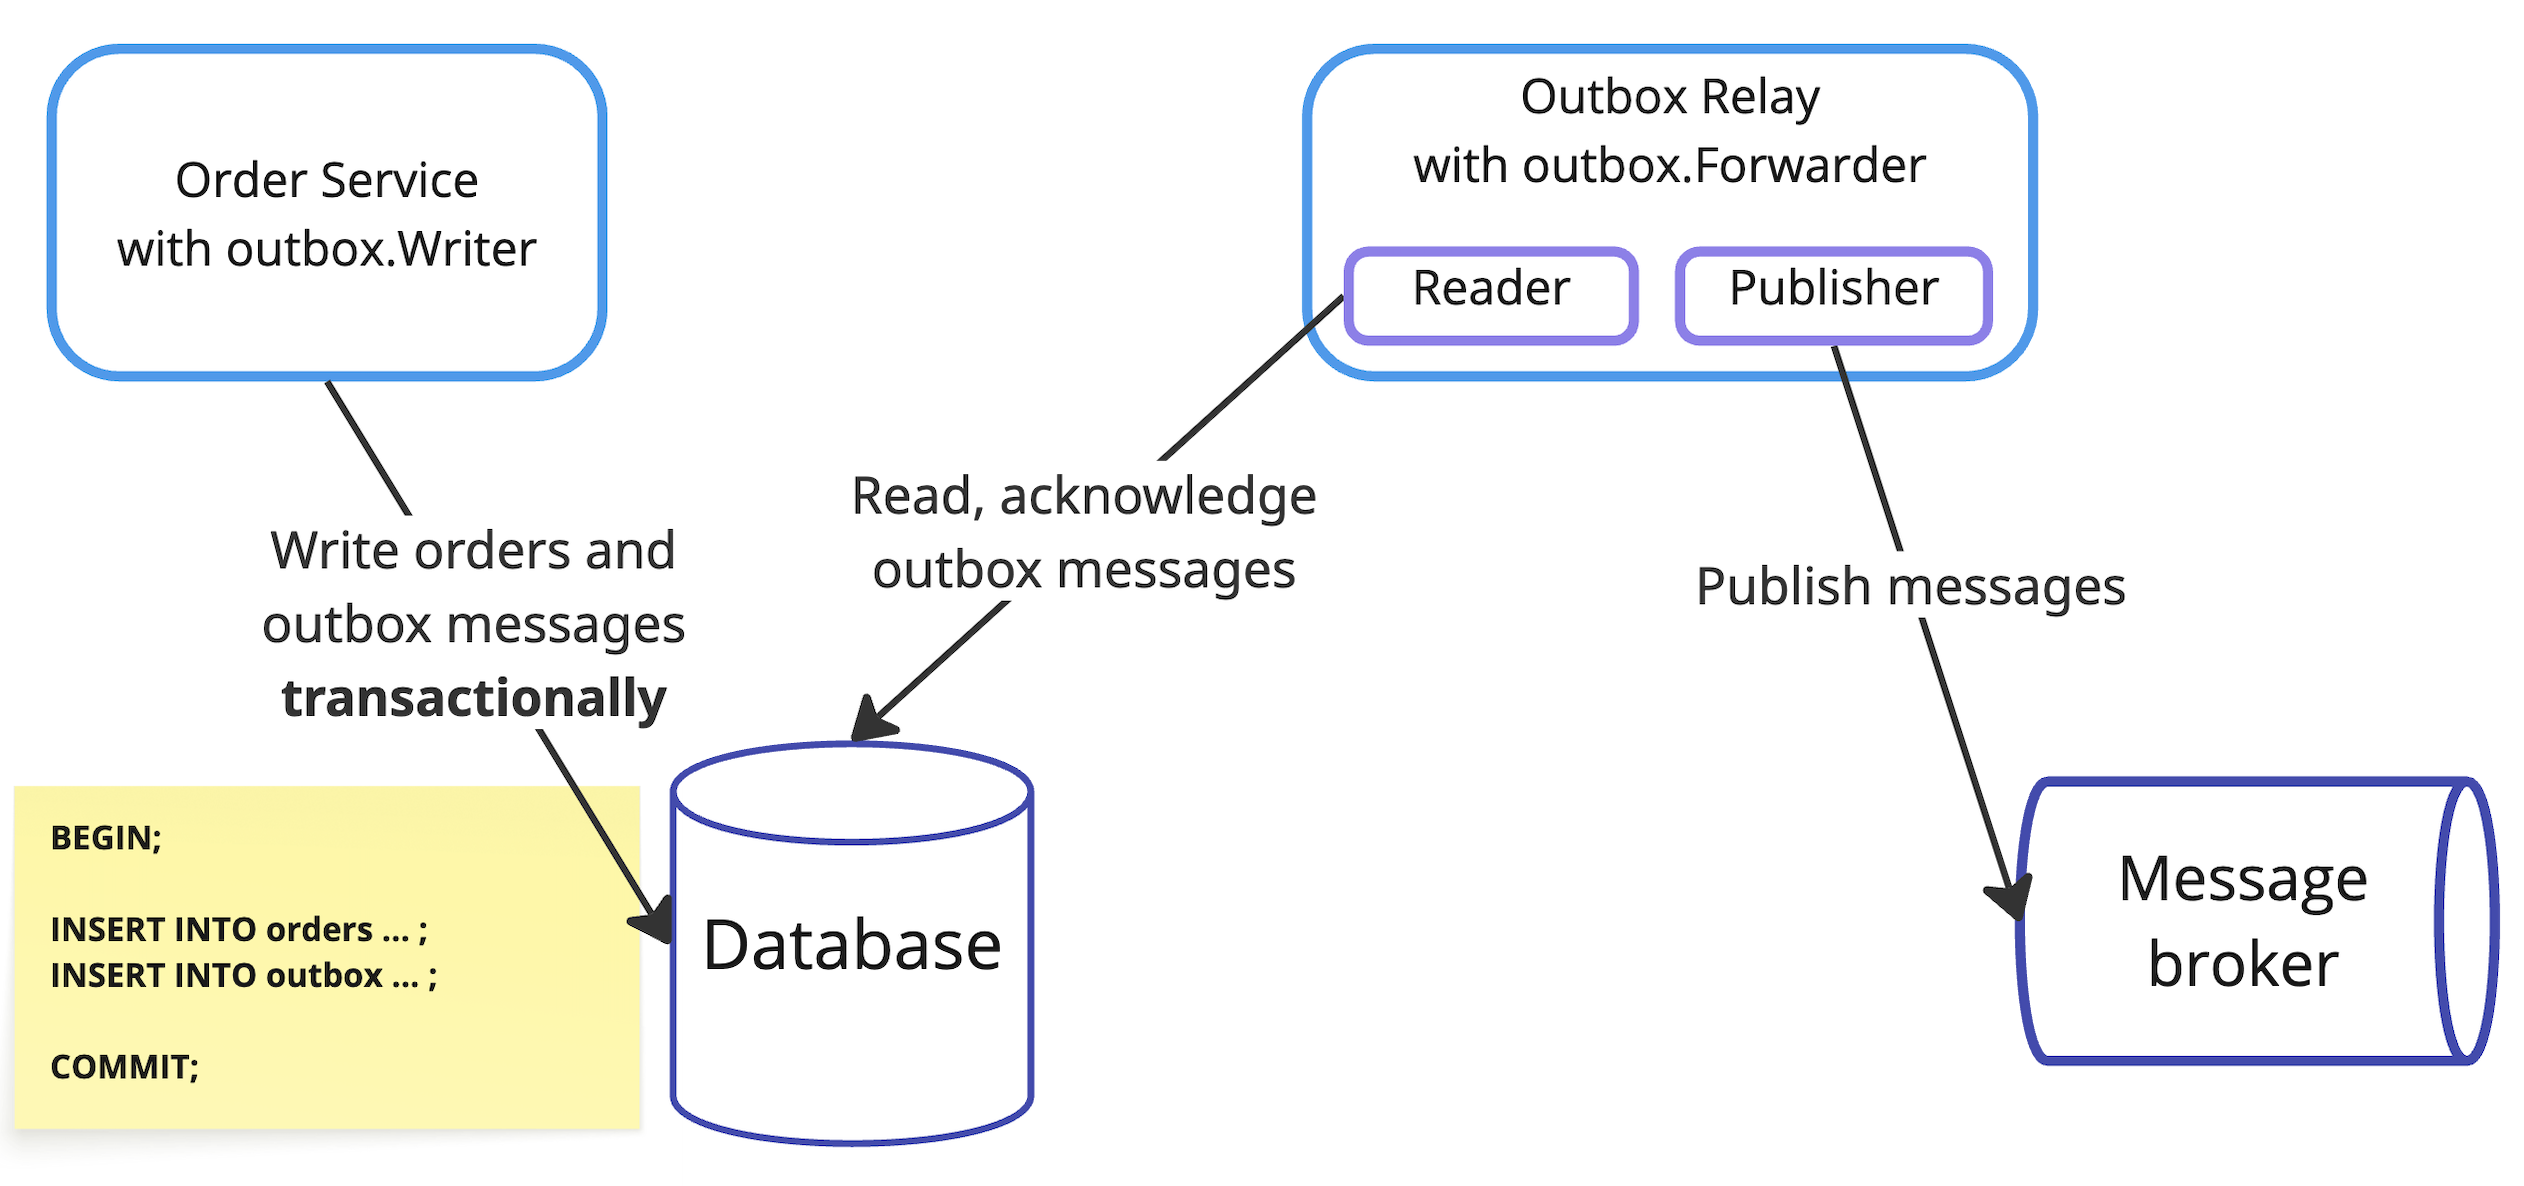
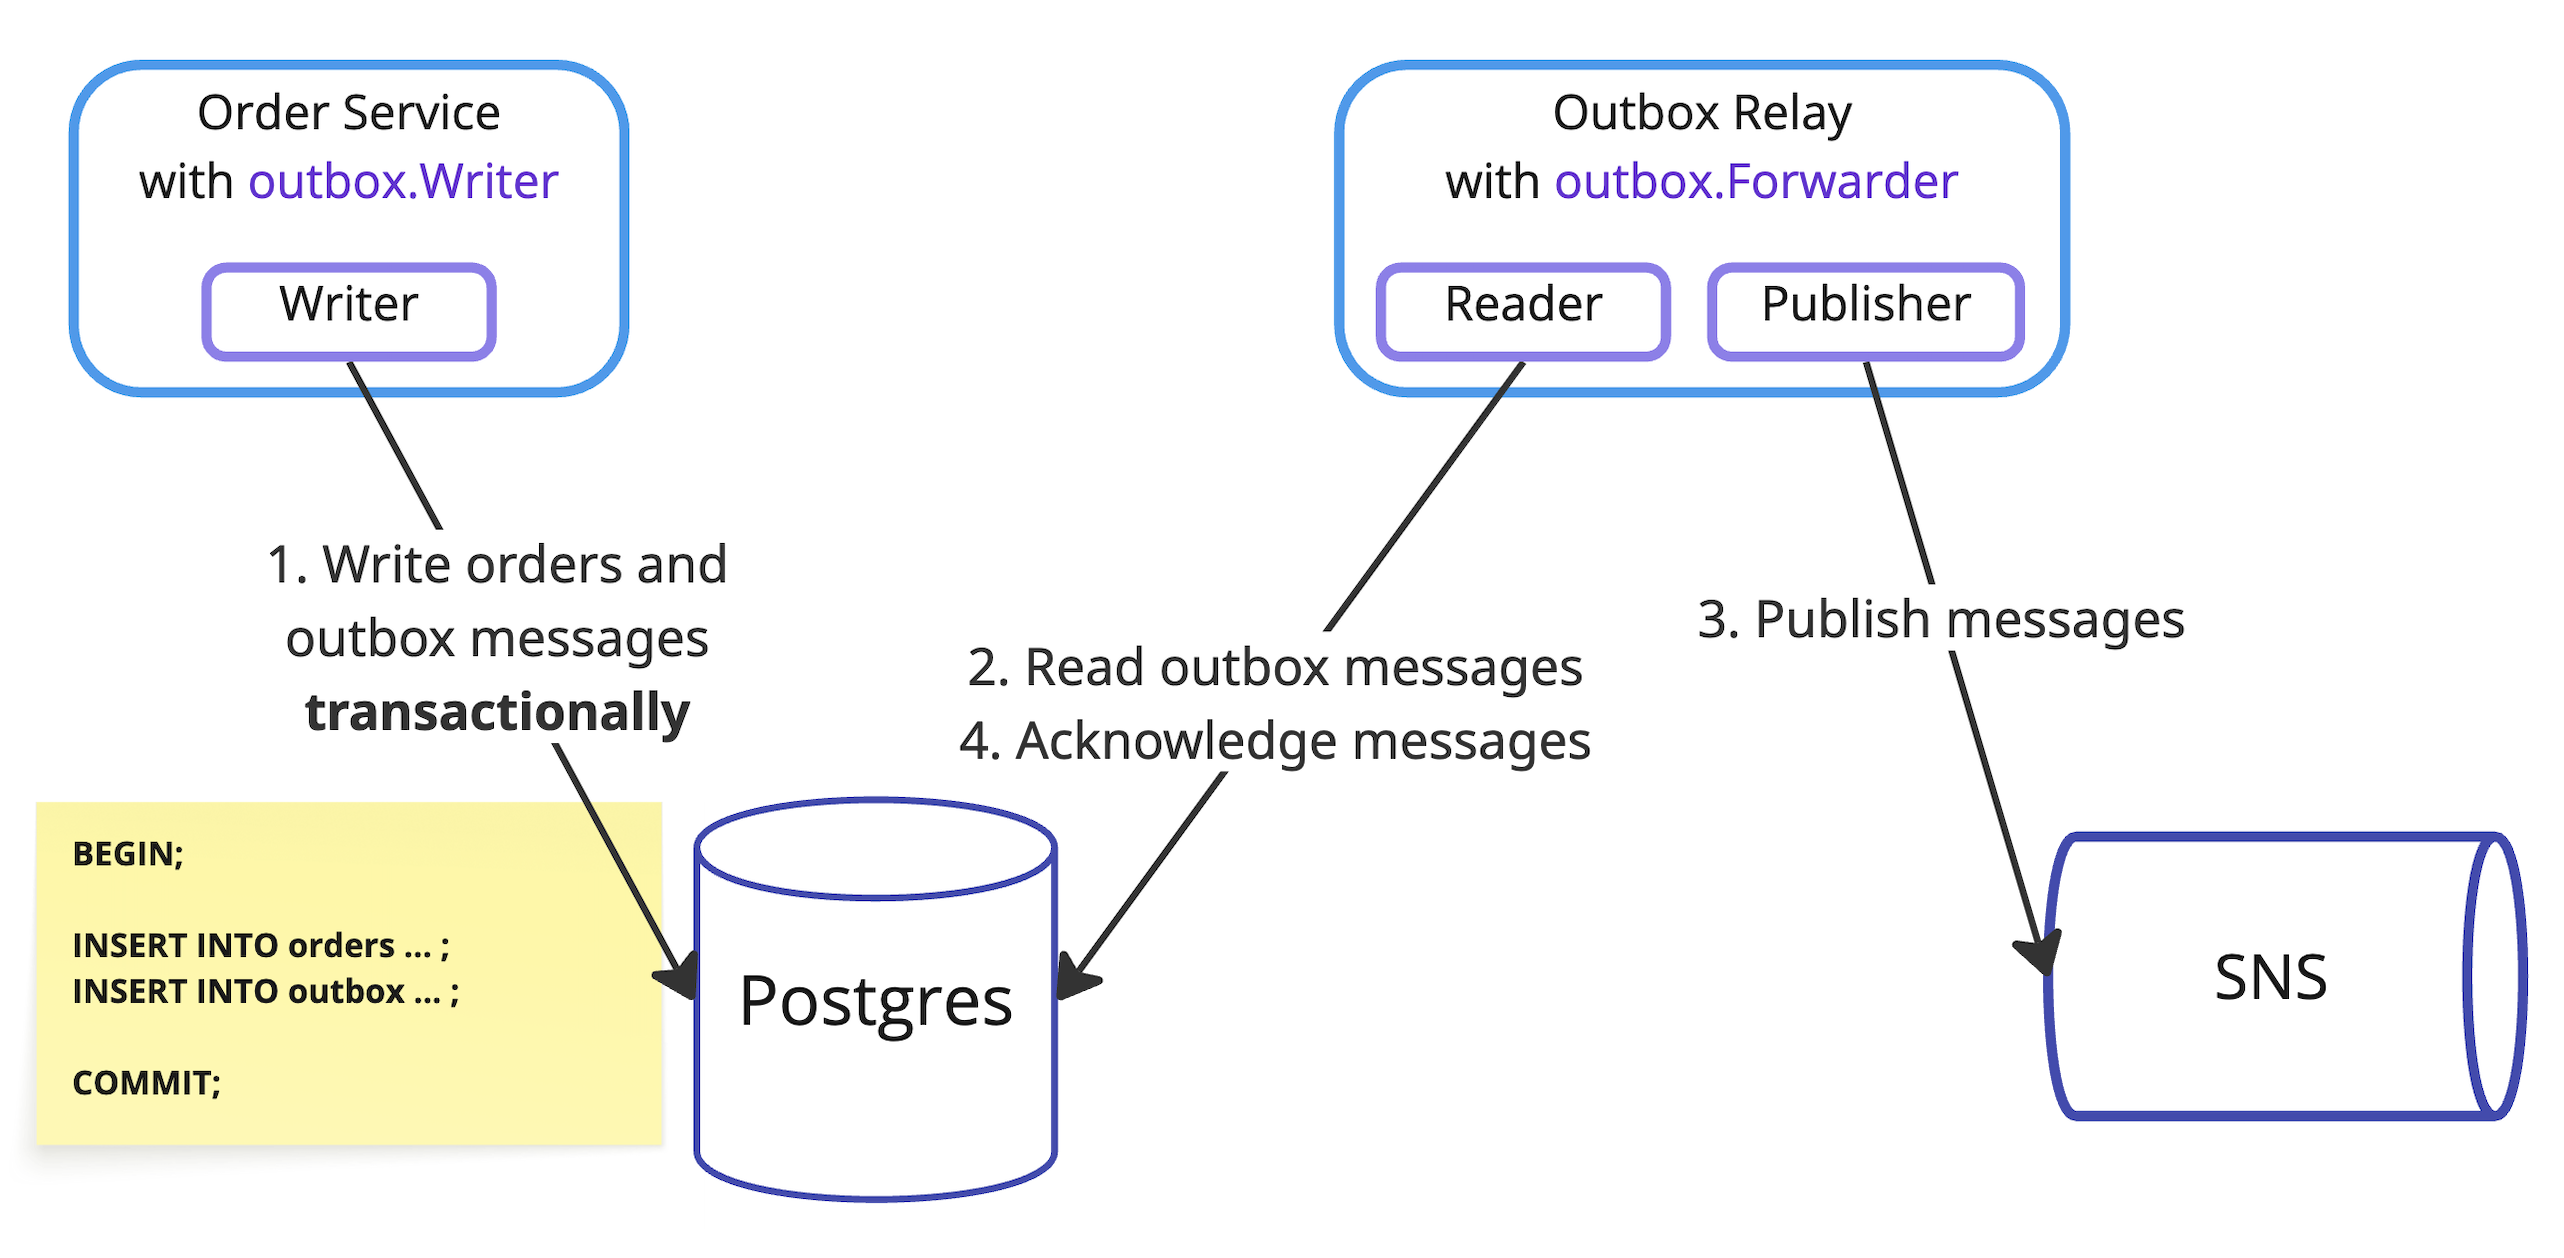
20250910 - containerdays outbox pattern 5

diff --git a/20250910-container-days/index.html b/20250910-container-days/index.html
@@ -61,6 +61,13 @@
         </section>
 
         <section>
+            <h2>Talk inspirations</h2>
+            <p>Revisiting the Outbox Pattern - Gunnar Morling</p>
+            <p>Personal experience</p>
+            <p>Company experience</p>
+        </section>
+
+        <section>
             <h2>Dual write problem</h2>
             <img src="images/dual_write.png" alt="" height="500">
         </section>
@@ -68,16 +75,15 @@
         <section>
             <h2>Dual write problem</h2>
             <p><i>Service A</i> writes to DB and message broker</p>
-            <p>Inconsistent system state if any of writes fails</p>
-            <p>Conditional requirement: strong consistency</p>
+            <p><b>Inconsistent</b> system state if any of writes fails</p>
         </section>
 
 
         <section>
             <h2>Naive approaches</h2>
-            <p>Write to DB first, then send to broker</p>
-            <p>Send to broker first, then write to DB</p>
-            <p>Send to broker inside DB tx, then commit</p>
+            <p>▪ Write to DB first, then send to broker</p>
+            <p>▪ Send to broker first, then write to DB</p>
+            <p>▪ Send to broker within DB tx before commit</p>
         </section>
 
         <section>
@@ -111,61 +117,62 @@
 
      created_at   TIMESTAMP DEFAULT CURRENT_TIMESTAMP NOT NULL,
 
-     -- additional metadata: event type, domain object type and id, topic, etc
+     -- additional metadata: event type, domain object type and id, topic
  );</code></pre>
         </section>
 
 
         <section>
             <h2>Outbox pattern pros</h2>
-            <p>one of solutions to <i>dual write problem</i></p>
-            <p>+ Atomicity between orders and outbox messages</p>
-            <p>+ At least once delivery to message broker</p>
+            <p>one of solutions to dual write problem</p>
+            <p>➕ <i>Atomicity</i> between orders and outbox messages</p>
+            <p>➕ At least once delivery to message broker</p>
         </section>
 
         <section>
             <h2>Outbox pattern cons</h2>
-            <p>- Message publication delay</p>
-            <p>- Extra code or deployment unit</p>
-            <p>- Consumer might need to deduplicate</p>
-            <p>- Increased database load</p>
+            <p>➖ Message publication delay</p>
+            <p>➖ Extra code or deployment unit</p>
+            <p>➖ Consumer might need to deduplicate</p>
+            <p>➖ Increased database load</p>
         </section>
 
         <section>
-            <h2>Reading outbox</h2>
+            <h2>Reading from outbox</h2>
+            <img src="images/outbox_table.png" alt="" height="100">
             <p>Periodic polling</p>
-            <p>Log-based change data capture (CDC)</p>
+            <p style="font-size: 0.9em;">Log-based change data capture (CDC)</p>
         </section>
 
         <section>
             <h2>Periodic polling</h2>
-            <ol>
-                <li>SELECT using LIMIT</li>
+            <ol style="list-style-type: none;">
+                <li>▪ SELECT (with LIMIT)</li>
                 <li>
-                    Options to mark published:
+                    ▪ Options to mark published:
 
                     <ol style="list-style-type: lower-alpha;">
-                        <li>DELETE by <i>ids</i></li>
-                        <li>UPDATE <i>published_at</i> by <i>ids</i></li>
-                        <li>Store latest <i>id</i> in a separate table</li>
+                        <li>DELETE by ids</li>
+                        <li>UPDATE <i>published_at</i> by ids</li>
+                        <li>Store latest id in a separate table</li>
                     </ol>
                 </li>
             </ol>
         </section>
 
         <section>
-            <h2>Go libraries with polling</h2>
+            <h2>Go libs with polling</h2>
             <p>Watermill-SQL</p>
             <p>pgx-outbox</p>
             <p>go-outbox, outboxer</p>
-            <p>General purpose queues, e.g. River</p>
+            <p>general purpose queues: River, etc</p>
         </section>
 
         <section>
             <h2>pgx-outbox</h2>
-            <p>Focus on <i>Postgres</i> and <i>pgx</i> driver</p>
-            <p>Implements Message, Writer, Forwarder, Reader, Publisher</p>
-            <p>UPDATE approach to mark published messages</p>
+            <p>Strong focus on <i>Postgres</i> and <i>pgx</i> driver</p>
+            <p>Implements <i>Message</i>, <i>Writer</i>, <i>Forwarder</i></p>
+            <p style="font-size: 0.95em;">UPDATE approach to mark published messages</p>
             <p style="font-size: 0.9em;">Inspired by Watermill Forwarder</p>
         </section>
 
@@ -189,23 +196,24 @@
         </section>
 
         <section>
-            <h2>Demo?</h2>
+            <h2>Tracing with otelpgx</h2>
+            <img src="images/tracing.png" alt="" height="200">
         </section>
 
         <section>
             <h2>Polling cons</h2>
-            <p>Low publication delay vs polling too often</p>
-            <p>Risk of starving other workloads under high traffic</p>
-            <p>UPDATE and DELETE create dead tuples (MVCC)</p>
-            <p>Autovacuum settings might need tuning</p>
+            <p>➖ Low publication delay vs polling too often</p>
+            <p>➖ Risk of starving other workloads under high traffic</p>
+            <p>➖ UPDATE and DELETE create dead tuples (MVCC)</p>
+            <p>➖ Autovacuum settings might need tuning</p>
         </section>
 
         <section>
             <h2>Log-based CDC</h2>
             <p>Write-Ahead Log (WAL) in Postgres</p>
-            <p>+ Lower publication delay (tens of ms)</p>
-            <p>+ Reduced DB load: avoids polling, dead tuples</p>
-            <p>+ Events emitted in exact commit order</p>
+            <p>➕ Lower publication delay (tens of ms)</p>
+            <p>➕ Reduced DB load: avoids polling, dead tuples</p>
+            <p>➕ Events emitted in exact commit order</p>
         </section>
 
         <section>
@@ -238,9 +246,9 @@
         <section>
             <h2>Reading from WAL</h2>
             <p>Logical replication protocol in Postgres</p>
-            <p>Debezium (Server)</p>
-            <p>jackc/pglogrepl</p>
-            <p>PeerDB</p>
+            <p>▪ Debezium* (Server)</p>
+            <p>▪ <i>jackc/pglogrepl</i></p>
+            <p>▪ PeerDB</p>
         </section>
 
         <section>
@@ -249,13 +257,51 @@
             <p>Consumes DB events and can send to sinks</p>
             <p>Very mature, started in 2015 by Red Hat</p>
             <p>Open source, written in <b>Java</b></p>
-            <!-- mention CRD / FES? -->
         </section>
 
         <section>
-            <h3>Debezium architecture</h3>
-            <img src="images/debezium.png" alt="" height="250" style="margin-top: 0; margin-bottom: 10px;">
-            <img src="images/debezium_server.png" alt="" height="300" style="margin-top: 0;">
+            <h3>Debezium architectures</h3>
+            <img src="images/debezium.png" alt="" height="240" style="margin-top: 0; margin-bottom: 5px;">
+            <img src="images/debezium_server.png" alt="" height="280" style="margin-top: 0; margin-bottom: 5px;">
+            <div style="font-size: 12px;">https://debezium.io/documentation/reference/stable/architecture.html</div>
+        </section>
+
+        <section>
+            <h3>Debezium Server config example</h3>
+            <pre style="font-size: 0.75em !important;"><code class="language-yaml">
+ # Source: Postgres
+ debezium.source.connector.class=io.debezium...PostgresConnector
+ debezium.source.database.{*}=
+ debezium.source.plugin.name=pgoutput
+ debezium.source.publication.name=debezium_publication
+ debezium.source.slot.name=debezium_slot
+ debezium.source.table.include.list=public.outbox_messages
+
+ # Sink: HTTP
+ debezium.sink.type=http
+ debezium.sink.http.url=http://http-listener:8080
+
+ # Output format & single message transformation (SMT)
+ debezium.format.{key,value}=json
+ debezium.transforms=unwrap
+            </code></pre>
+        </section>
+
+        <section>
+            <h2>Debezium + Go</h2>
+            <p>▪ Kubernetes CRD + Operator for CDC</p>
+            <p>▪ Operator creates single-pod Deployment</p>
+            <p>▪ Pod is powered by Debezium,</p>
+            <p>captures outbox inserts in <i>source</i> DB,</p>
+            <p>publishes to message broker sink</p>
+        </section>
+
+        <section>
+            <h2>Outbox cleanup</h2>
+        </section>
+
+        <section>
+            <h2>Debezium Demo?</h2>
         </section>
 
         <section>
